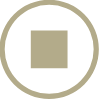
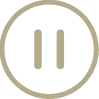
fixed multiple stuff for the music player

diff --git a/index.js b/index.js
@@ -6,6 +6,7 @@ let endTime = $(".end_time");
 
 let trackIndex = 0;
 let isPlaying = false;
+let updateTimer;
 let currentTrack = document.createElement('audio');
 
 let trackList = [
@@ -92,10 +93,20 @@ function loadTrack(trackIndex) {
     $(trackName).text(trackList[trackIndex].name);
     $(artist).text(trackList[trackIndex].artist);
 
-    updateTimer = setInterval(seekUpdate, 1000);
+    updateTimer = setInterval(seekUpdate, 500);
     $(currentTrack).on("ended", function() {
         nextTrack();
     });
+    $(".backward").click(function() {
+        previousTrack();
+    })
+    $(".forward").click(function() {
+        nextTrack();
+    })
+    $(playPauseBtn).click(function() {
+       playPauseTrack();
+    })
+    
 }
 
 function resetValues() {
@@ -104,24 +115,27 @@ function resetValues() {
 }
 
 function playPauseTrack() {
-    if (! isPlaying) playTrack();
-    else playPauseTrack();
+    if (! isPlaying){
+        playTrack();
+    }
+    else pauseTrack();
+    console.log(isPlaying);
 }
 
 function playTrack() {
     currentTrack.play();
     isPlaying = true;
-    $(".play_pause_btn").attr("src", "assets/play.png");
+    $(playPauseBtn).attr("src", "assets/pause.png");
 }
 
 function pauseTrack() {
     currentTrack.pause();
     isPlaying = false;
-    $(".play_pause_btn").attr("src", 'assets/stop.png');
+    $(playPauseBtn).attr("src", 'assets/play.png');
 }
 
 function nextTrack() {
-    if (trackIndex < track_list.length - 1) {
+    if (trackIndex < trackList.length - 1) {
         trackIndex += 1;
     }
     else trackIndex = 0;
@@ -134,7 +148,7 @@ function previousTrack() {
     if (trackIndex > 0) {
         trackIndex -= 1;
     }
-    else trackIndex = trackList.length
+    else trackIndex = trackList.length - 1;
 
     loadTrack(trackIndex);
     playTrack();
@@ -149,9 +163,9 @@ function seekTo() {
 }
 
 function seekUpdate() {
-    if (!isNaN(currentTrack.duration)) {
+    if (!isNaN(currentTrack.duration)){
         seekPosition = currentTrack.currentTime * (100 / currentTrack.duration);
-        $(".slider-color").attr("background", "linear-gradient(to right, rgb(179, 171, 138)" + seekPosition + "% , transparent" (100 - seekPosition) + "%");
+        $(".slider-color").attr("background", "linear-gradient(to right, rgb(179, 171, 138)" + seekPosition + "% , transparent" + (100 - seekPosition) + "%");
     }
 
     let currentMinutes = Math.floor(currentTrack.currentTime / 60);
@@ -173,6 +187,11 @@ function seekUpdate() {
     }
     $(currTime).text(currentMinutes + ":" + currentSeconds);
     $(endTime).text(durationMinutes + ":" + durationSeconds);
-    // i guess this is all. i'll check if it works tmr :))) im so sleepy but i still need to work on 
-    // my other project which is a macropad. sigh.
+
+    if (currTime < endTime) {
+        seekPosition = currentTrack.currentTime * (100 / currentTrack.duration);
+        $(".slider-color").attr("background", "linear-gradient(to right, rgb(179, 171, 138)" + 20 + "% , transparent" + 70 + "%");
+    }
 }
+
+loadTrack(trackIndex);
